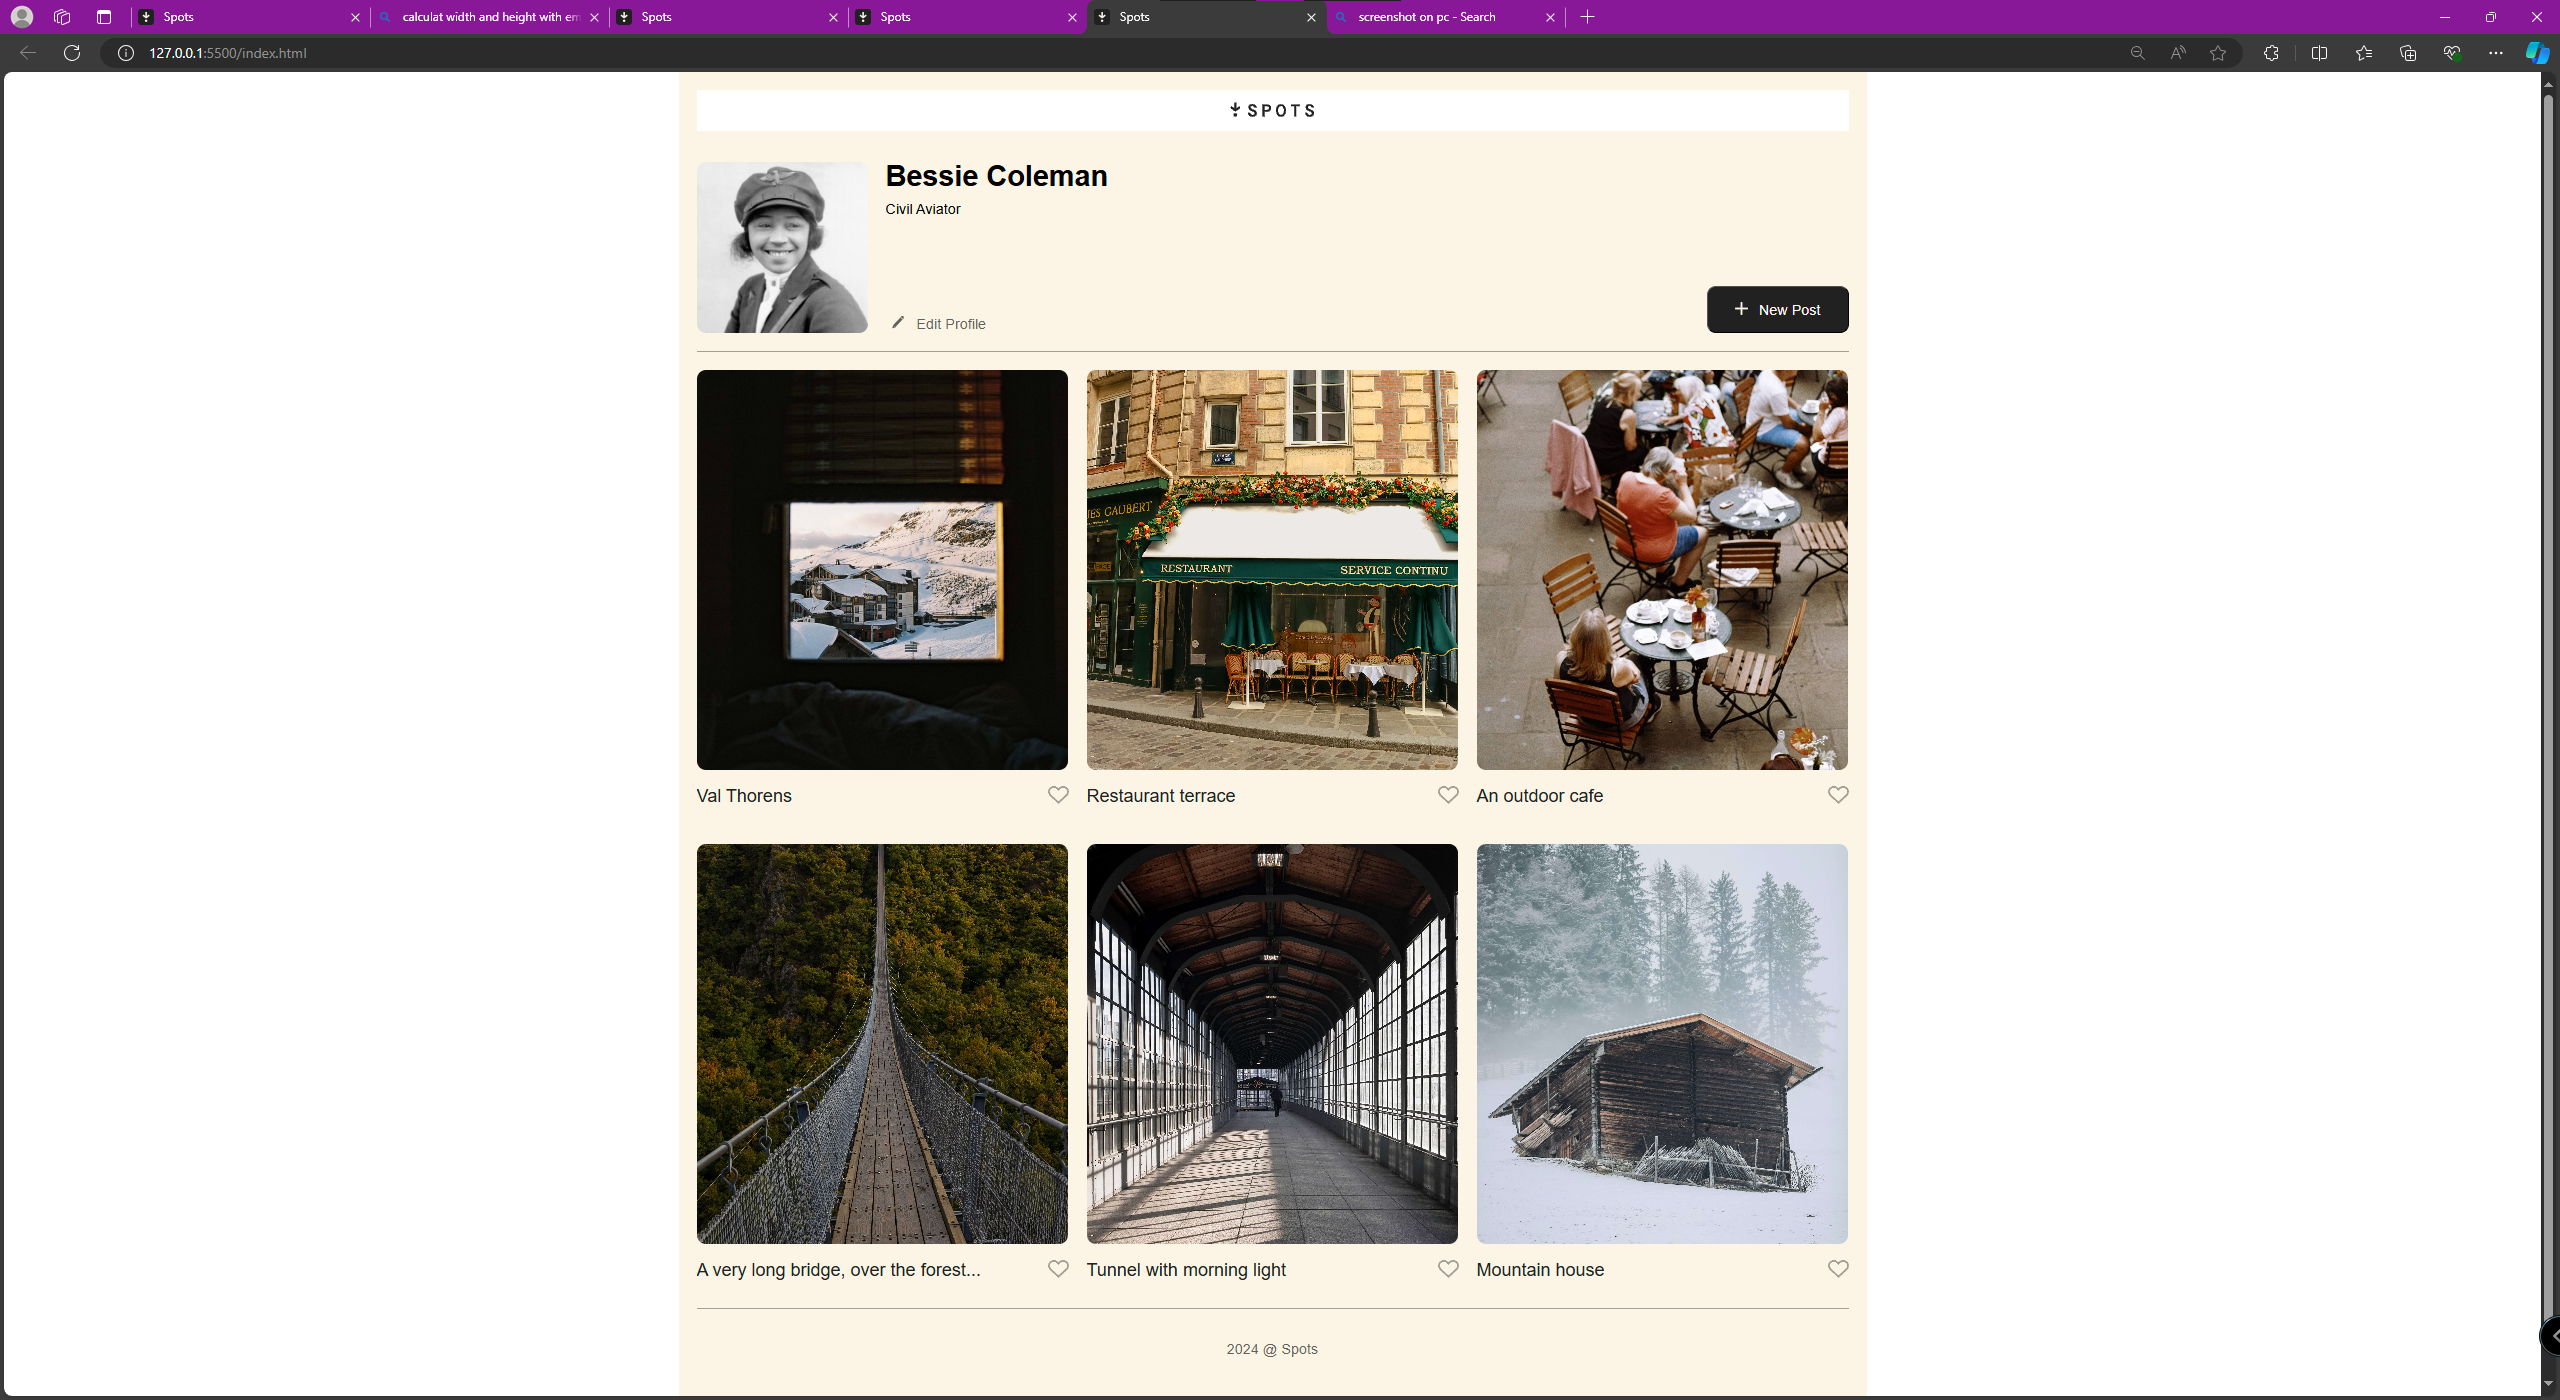
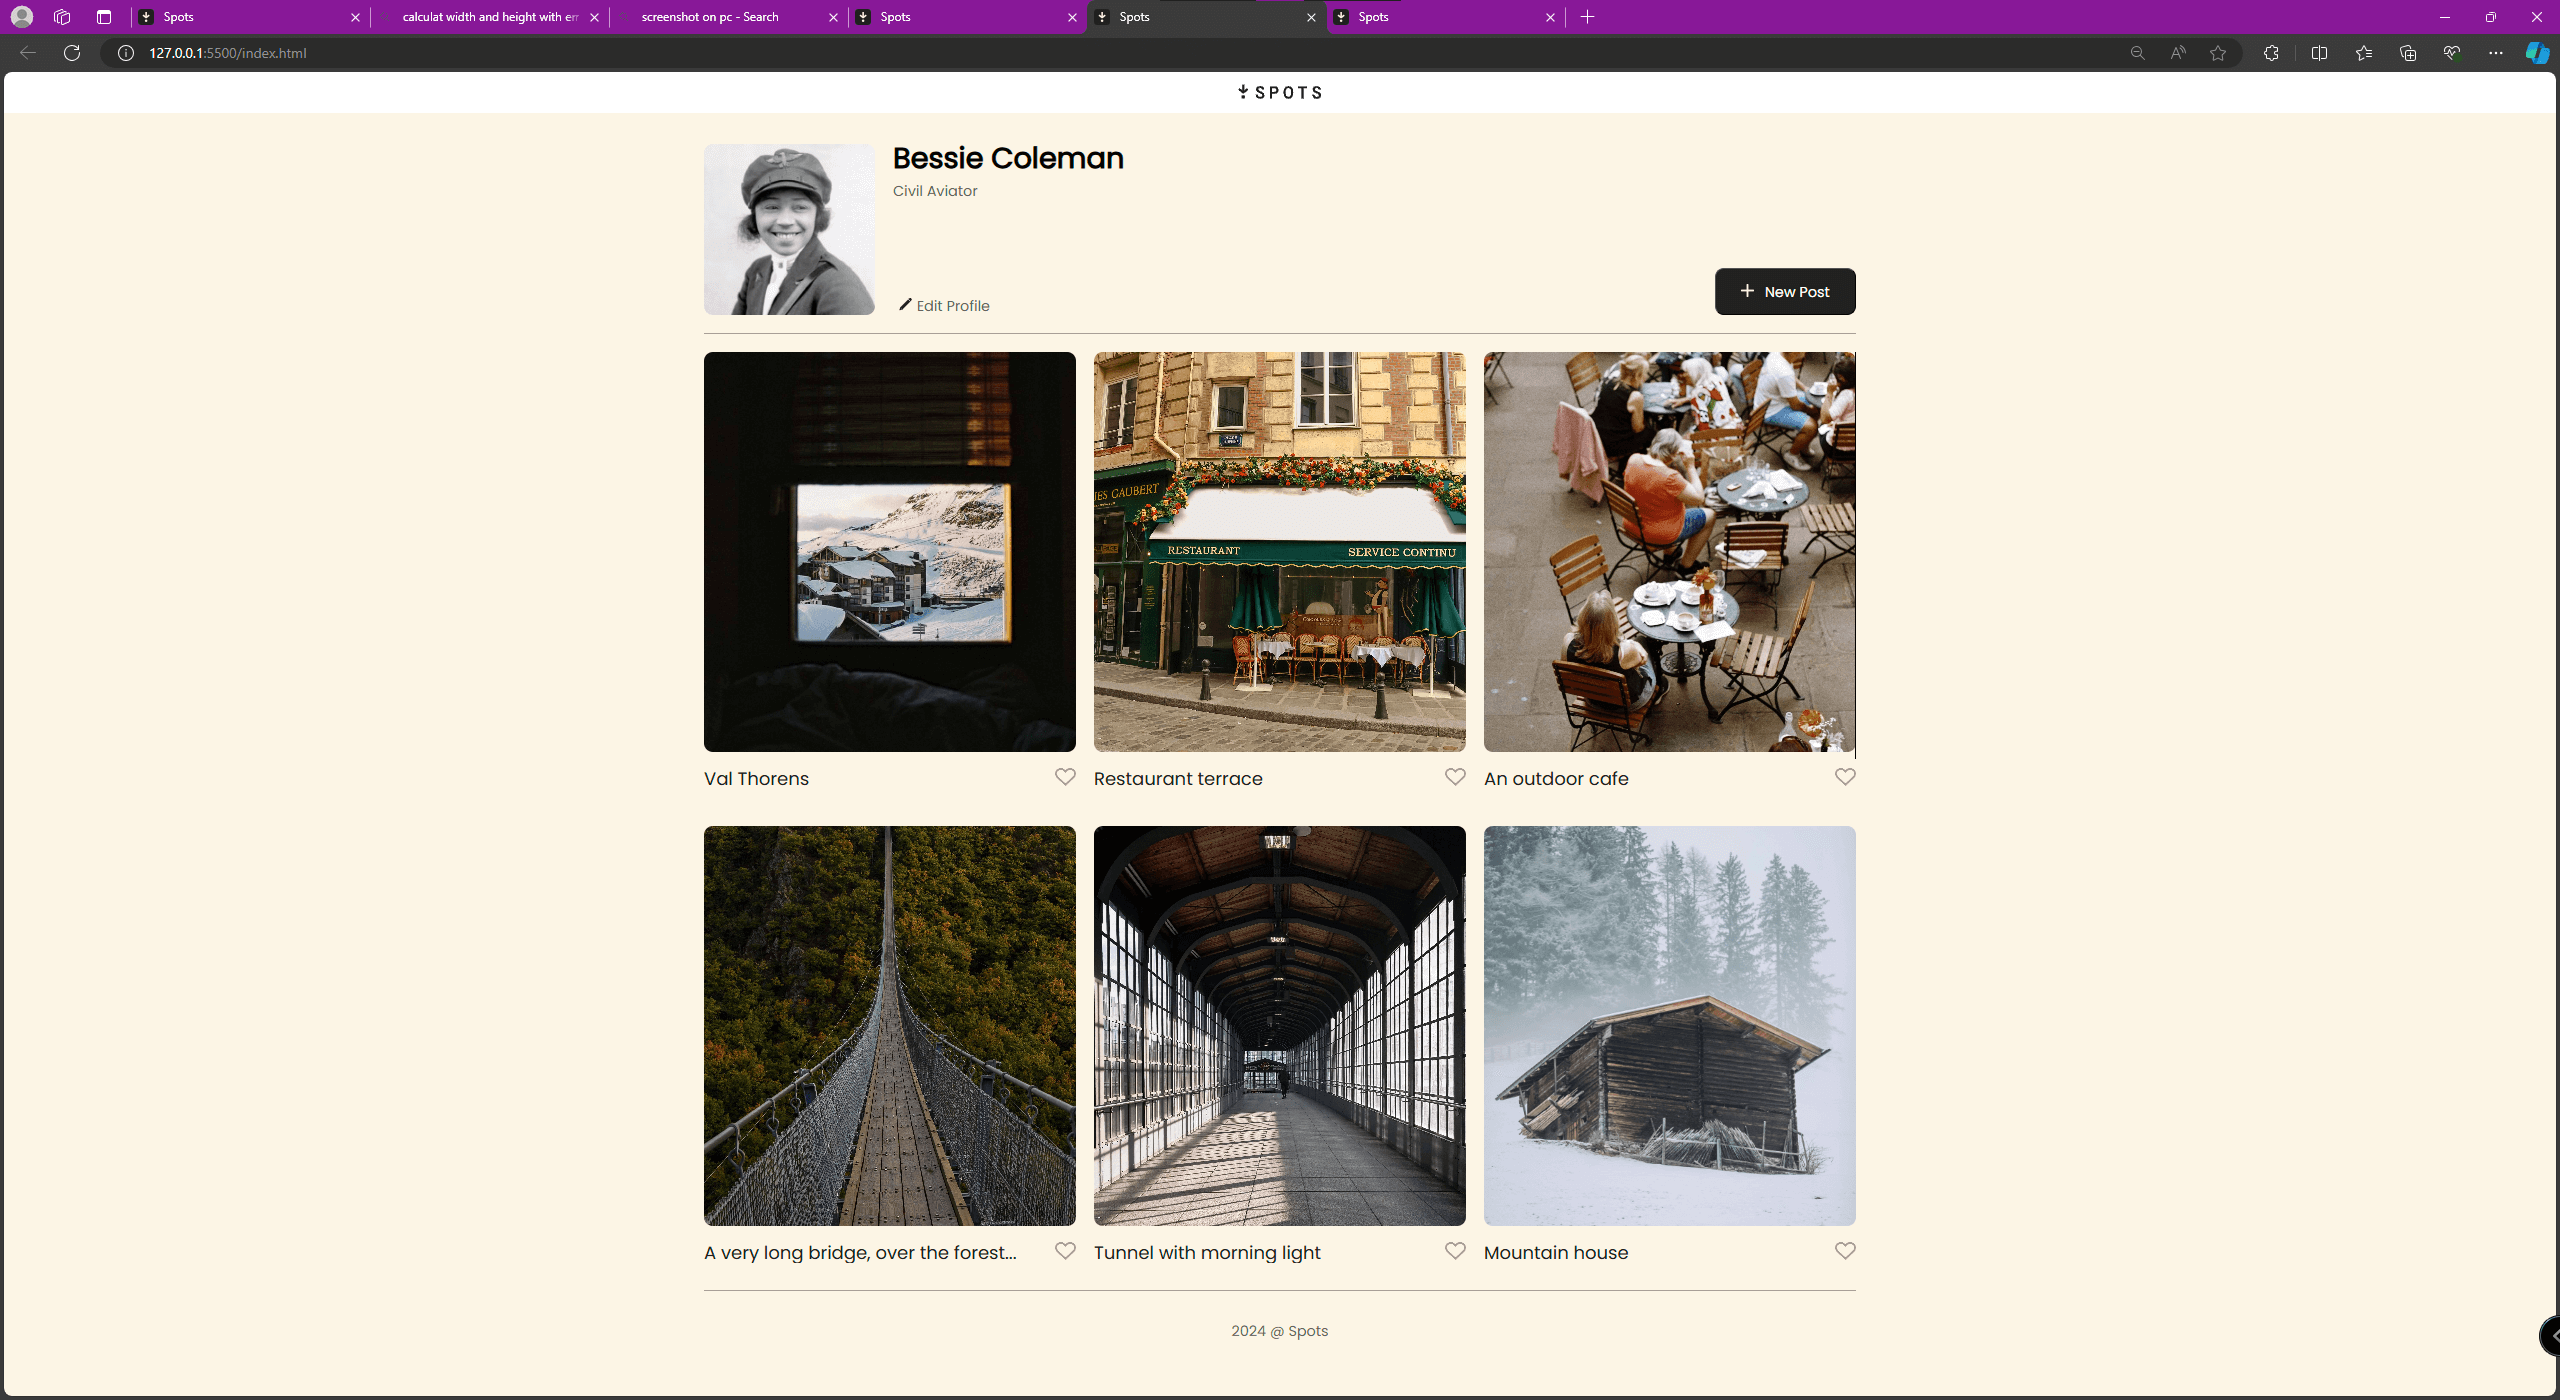
reduced the size of the project with tinypng.

diff --git a/pages/index.css b/pages/index.css
@@ -2,6 +2,7 @@
 @import url("../vendor/fonts/fonts.css");
 @import url("../blocks/page.css");
 @import url("../blocks/header.css");
+@import url("../blocks/content.css");
 @import url("../blocks/profile.css");
 @import url("../blocks/card.css");
 @import url("../blocks/footer.css");

diff --git a/blocks/page.css b/blocks/page.css
@@ -1,11 +1,9 @@
 .page {
   margin: 0 auto;
-  max-width: 1280px;
   min-height: 100vh;
   background-color: #fcf5e5;
   font-family: "Poppins", Arial, sans-serif;
   line-height: 24px;
-  padding: 20px;
 }
 
 .page__section {

diff --git a/blocks/header.css b/blocks/header.css
@@ -1,11 +1,11 @@
 .header {
   background-color: #fff;
   padding: 10px 0;
+  display: flex;
+  justify-content: center;
 }
 
 .header__logo {
-  display: block;
-  margin: 0 auto;
   width: 94px;
   height: 26px;
 }

diff --git a/blocks/content.css b/blocks/content.css
@@ -1,0 +1,3 @@
+.content {
+  padding: 0 20px;
+}
